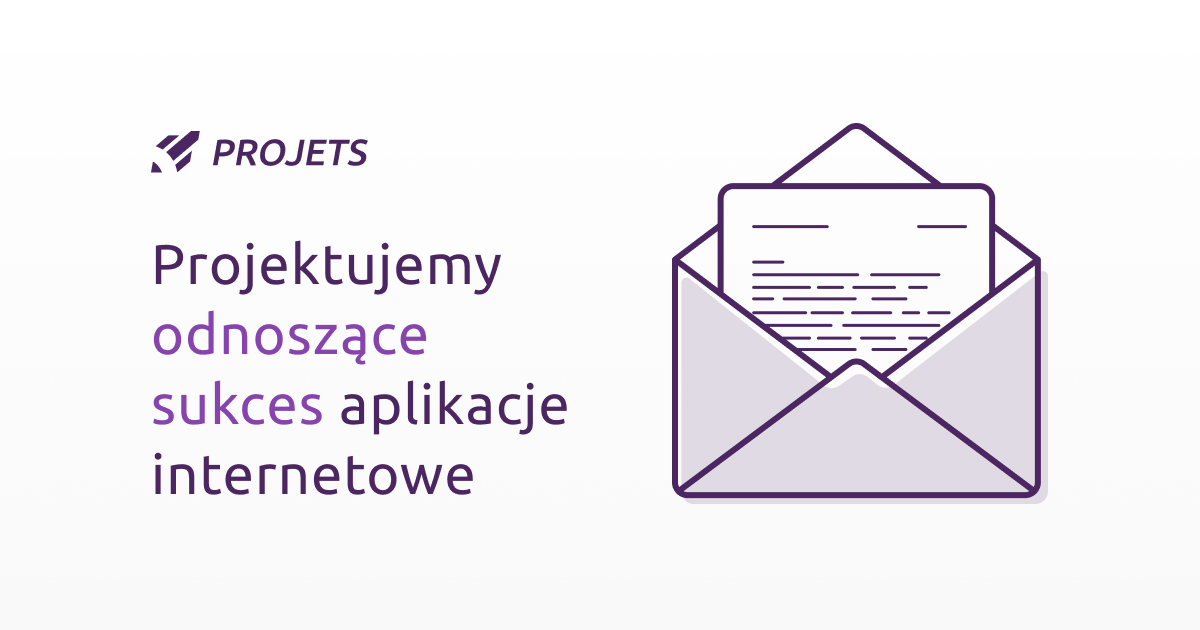
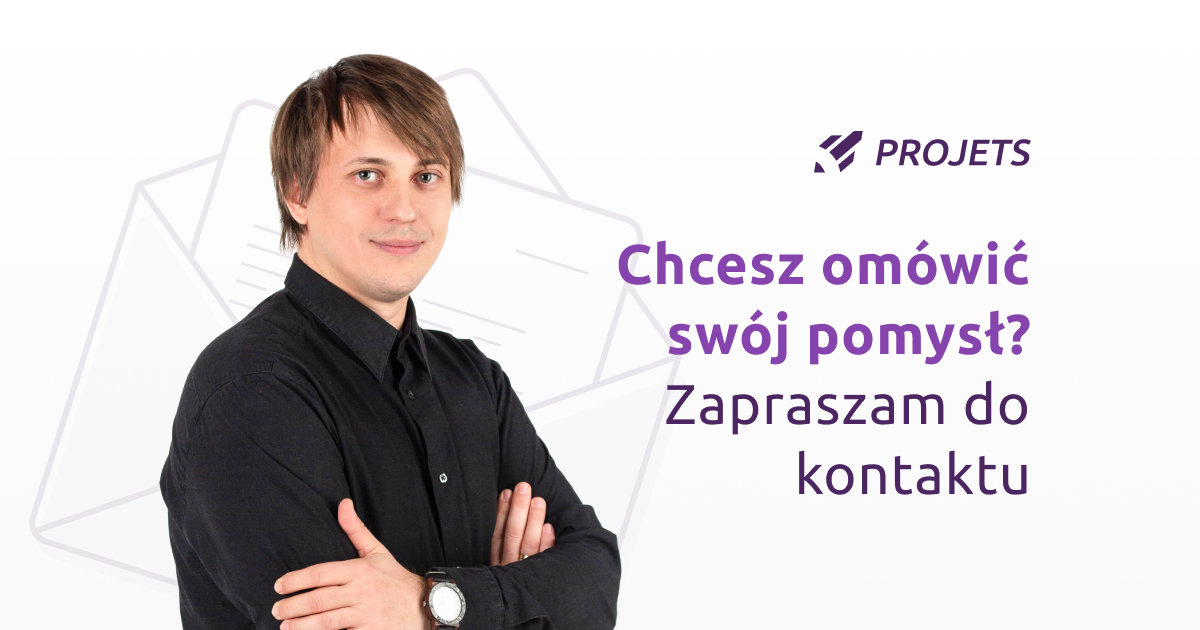
redesign contact

diff --git a/pages/kontakt.md b/pages/kontakt.md
@@ -7,7 +7,7 @@ published: true
 links_visible: true
 
 #SEO
-seo_title:  Wycenimy Twój projekt w 7 dni
+seo_title:  Wycenimy Twój projekt! |  Softwere House | Projets
 seo_description: |-
   Chcesz omówić swój pomysł? Napisz do nas, a my skontaktujemy się z Tobą w ciągu 24h i rozpoczniemy współpracę.
 
